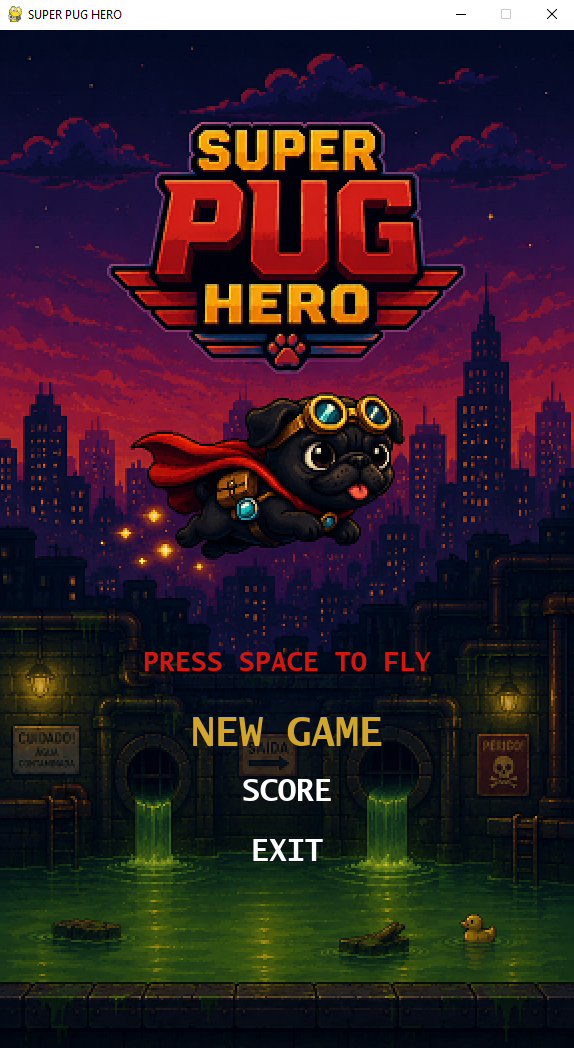
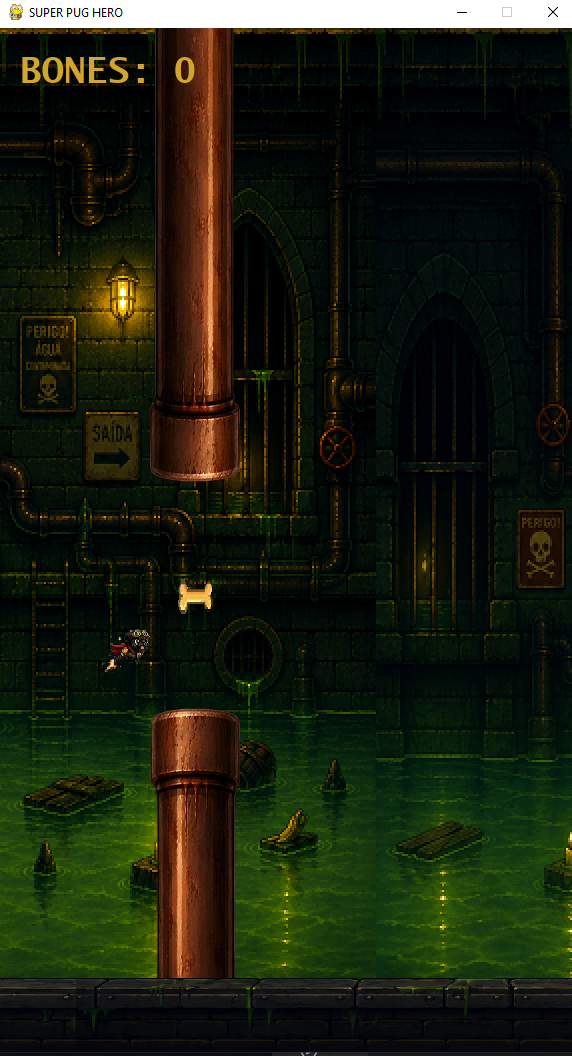
Added image screenshots

diff --git a/src/screens/gameplay.py b/src/screens/gameplay.py
@@ -109,10 +109,8 @@ class GamePlay:
             C_GOLDEN
         )
 
-        self.window.blit(
-            text,
-            (20, 20)
-        )
+        self.window.blit(text, (20, 20))
+
 
     def game_over(self):
 